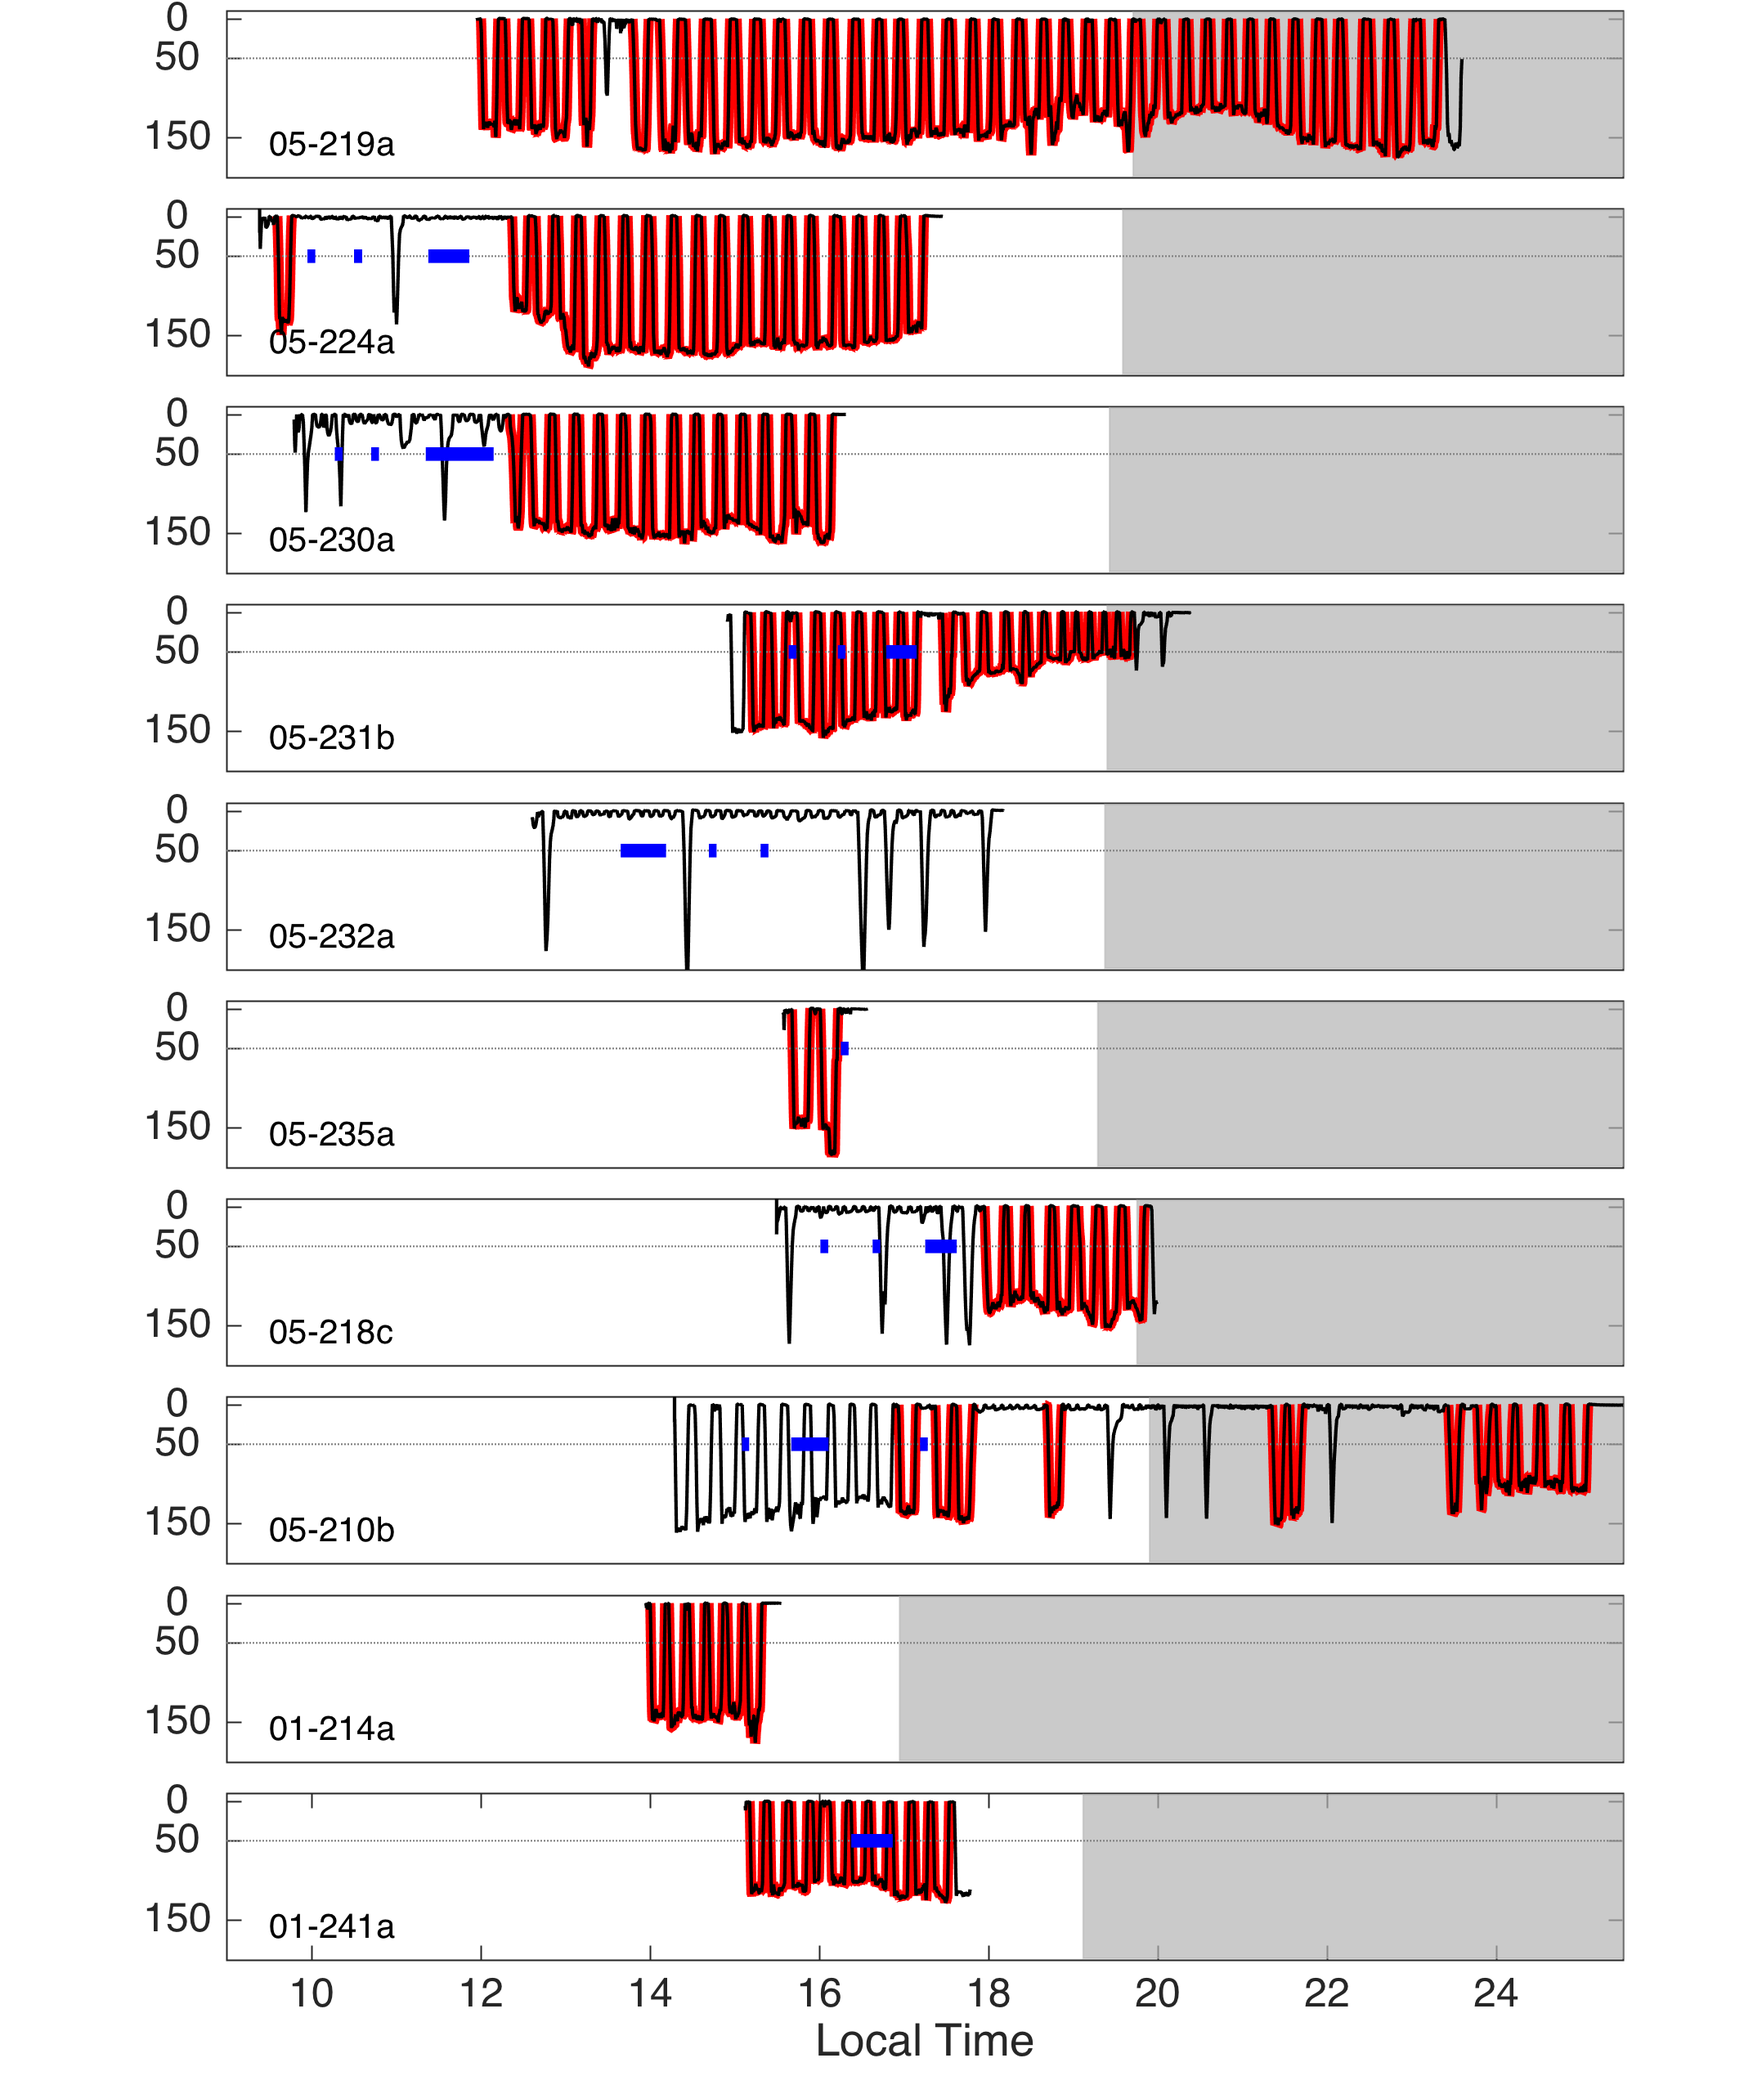
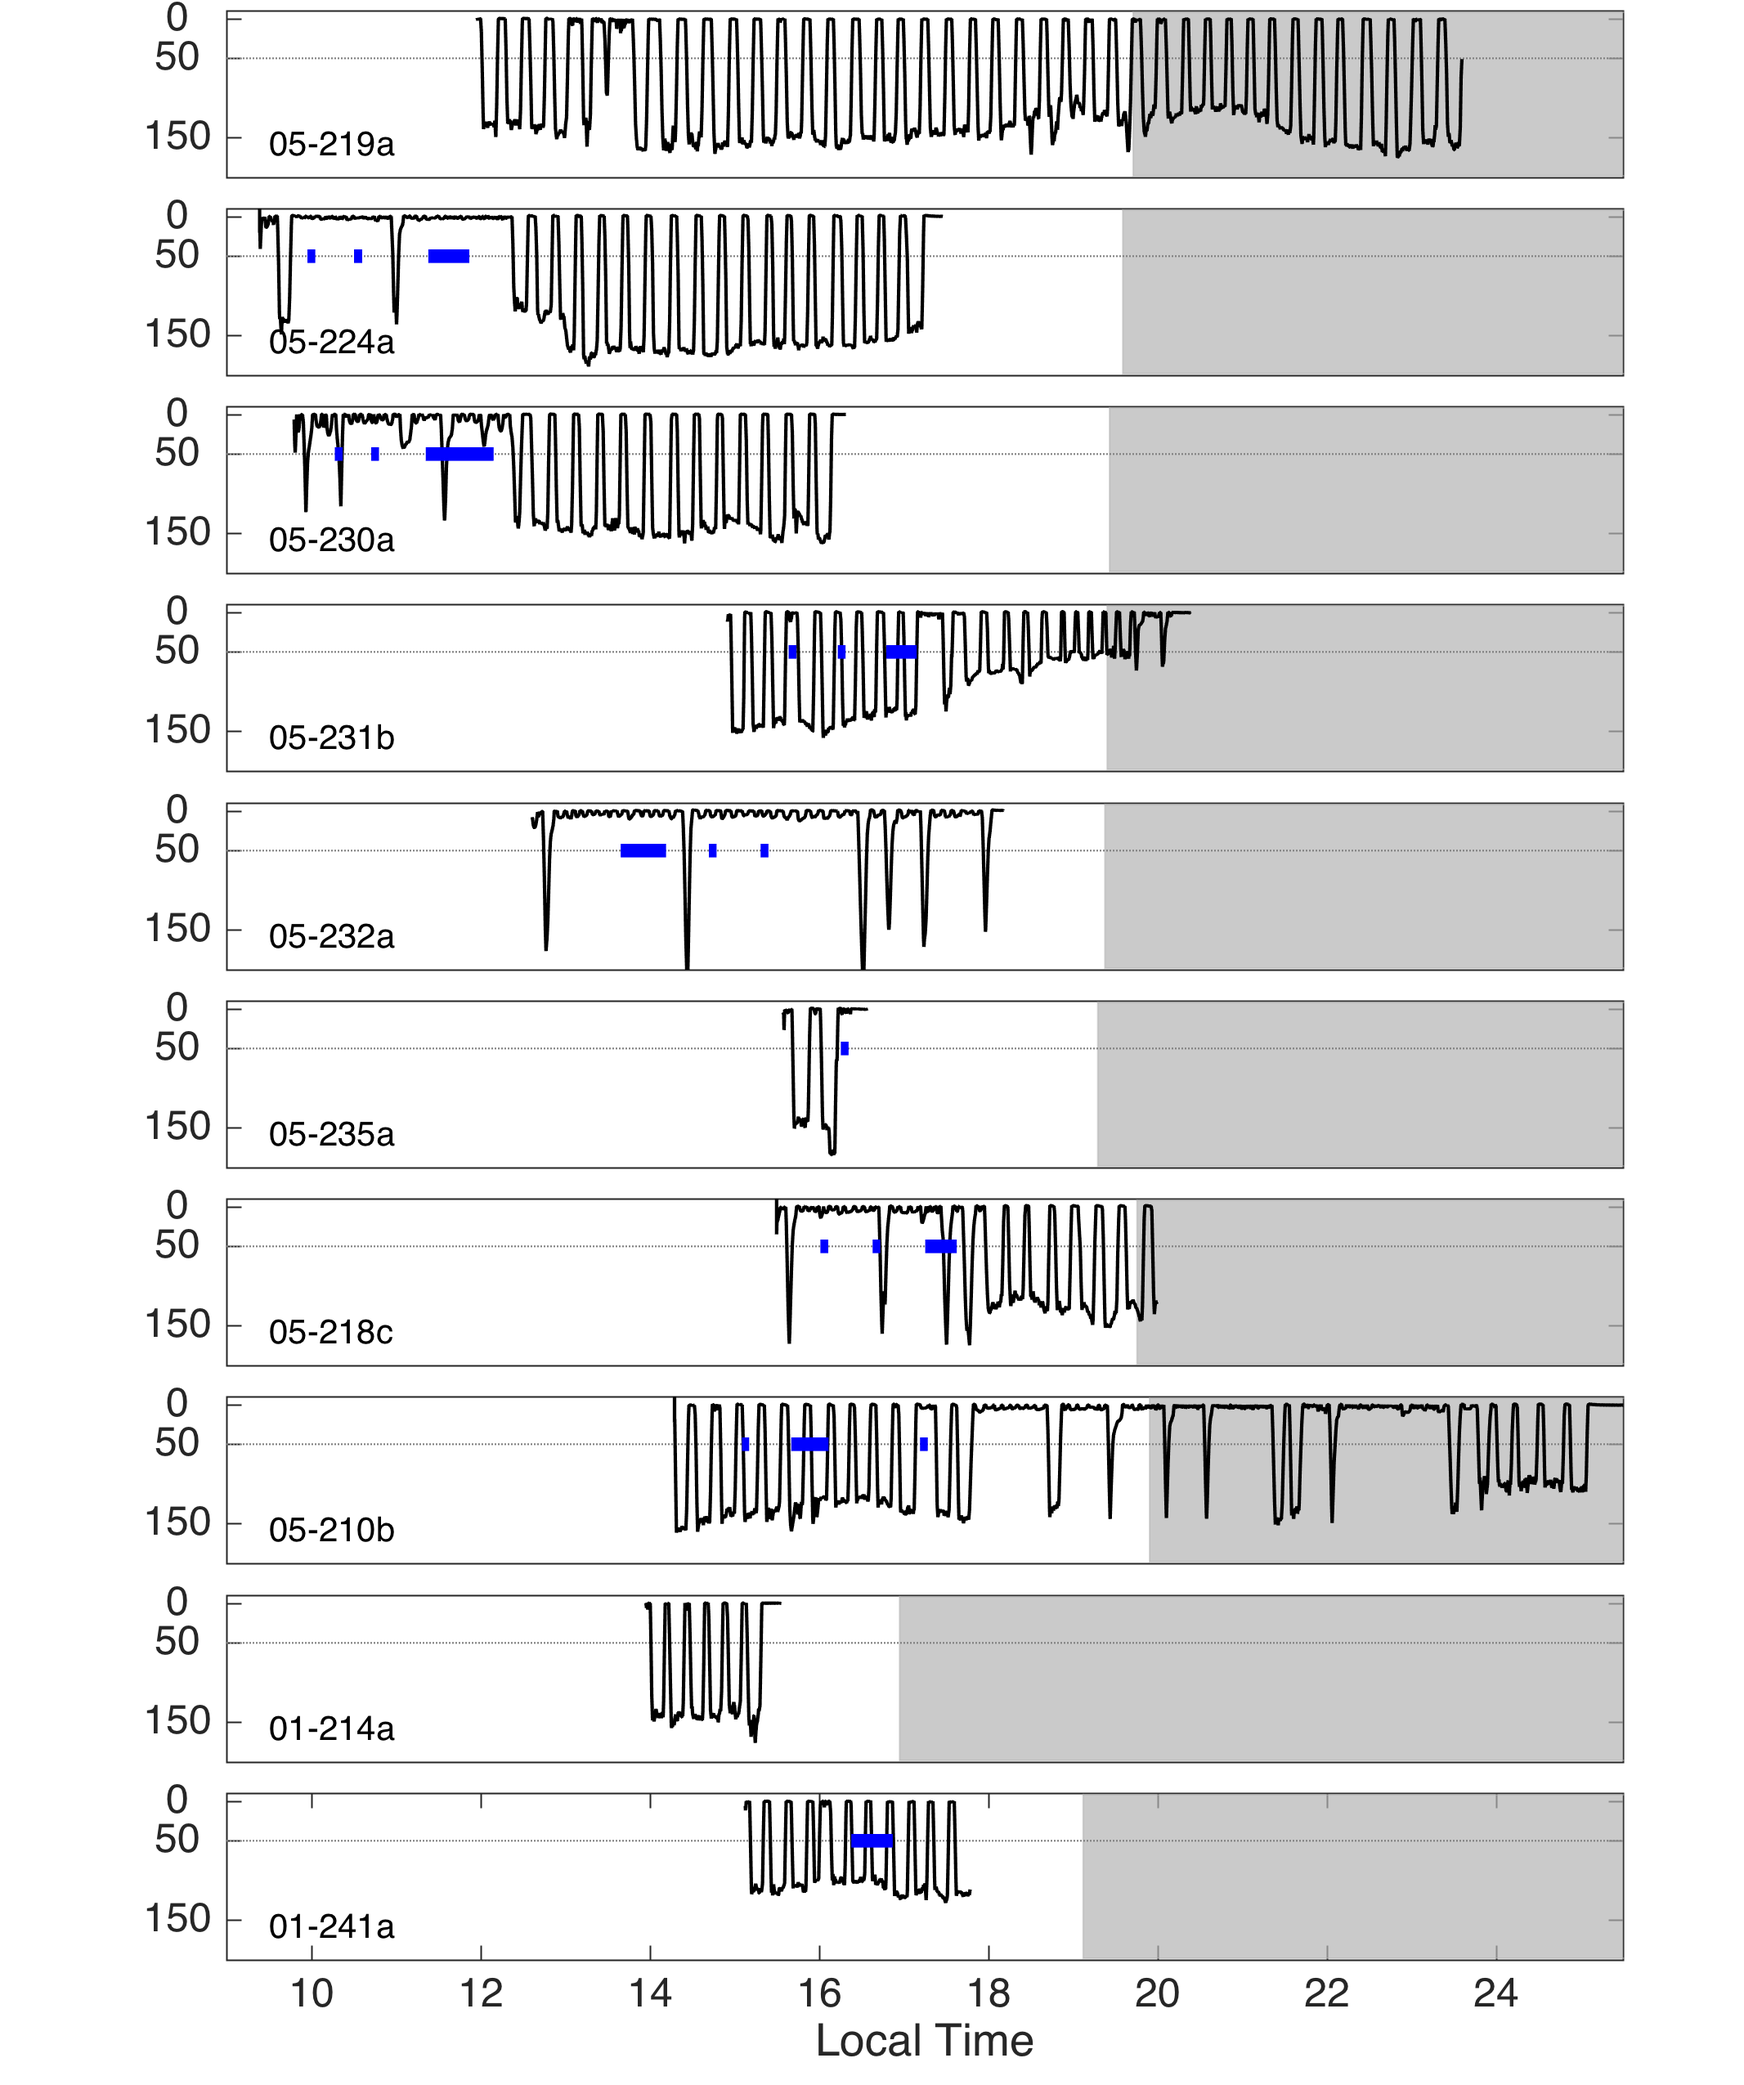
remove all files not using moving forward

diff --git a/NARW_plotAlldives.m b/NARW_plotAlldives.m
@@ -21,11 +21,11 @@ for i = 1:length(tags)
     ddur = T(:,2)-T(:,1); % calculate duration of all dives
     
     % import flow speed for the tag
-    load(['/Users/julievanderhoop/Dropbox (Personal)/tag/tagdata/' tag '_flowspeed.mat'])
-    
-    NARW_FilteredVol
-    NARW_plotalldens
-    
+%     load(['/Users/julievanderhoop/Dropbox (Personal)/tag/tagdata/' tag '_flowspeed.mat'])
+%     
+%     NARW_FilteredVol
+%     NARW_plotalldens
+%     
     %    figure(24), hold on
     %    for k = 1:length(dive)
     %        if isempty(dive(k).vperblock) == 0
@@ -35,21 +35,24 @@ for i = 1:length(tags)
     %   xlabel('Duration of fluking bout (sec)'), ylabel('Volume filtered m^3')
     
     % plot by time of day
-    figure(100), subplot('position',[0.13 1.01-(i*0.095) 0.8 0.08]), hold on, box on
+    if i <= 10, 
+        figure(100), 
+        subplot('position',[0.13 1.01-(i*0.095) 0.8 0.08]), hold on, box on
+    end
     UTC = tags{i,2}(4:end);
     % add sunrise and sunset
     [sun_rise,sun_set] = sunRiseSet(44.55,-66.4,-4,datestr(datenum(tags{i,2}(1:3))));
     sr = str2num(sun_rise(1:2))+str2num(sun_rise(4:5))/60+str2num(sun_rise(7:8))/3600;
     ss = str2num(sun_set(1:2))+str2num(sun_set(4:5))/60+str2num(sun_set(7:8))/3600;
-    h1 = patch([ss 25.5 25.5 ss ss],[8 8 -198 -198 0],[0.7 0.7 0.7]);
+    h1 = patch([ss 24+sr 24+sr ss ss],[8 8 -198 -198 0],[0.7 0.7 0.7]);
     h1.EdgeColor = [0.7 0.7 0.7]; h1.FaceAlpha = 0.7; h1.EdgeAlpha = 0.5;
-    for j = 1:length(dive)
-        if ~isempty(dive(j).vperblock)
-            dcue = T(j,1):T(j,2); % time in seconds
-            plot((UTC(1)+UTC(2)/60+UTC(3)/3600)+(T(j,1):T(j,2))/3600,-p(round(dcue*fs)),'r','linewidth',3)
-        end
-    end
-    
+%     for j = 1:length(dive)
+%         if ~isempty(dive(j).vperblock)
+%             dcue = T(j,1):T(j,2); % time in seconds
+%             plot((UTC(1)+UTC(2)/60+UTC(3)/3600)+(T(j,1):T(j,2))/3600,-p(round(dcue*fs)),'r','linewidth',3)
+%         end
+%     end
+%     
     plot([0 26],[-50 -50],':','color',[0.5 0.5 0.5])
     
     hh=plot((UTC(1)+UTC(2)/60+UTC(3)/3600)+[1:length(p)]/fs/3600,-p,'k','LineWidth',1);
@@ -57,29 +60,40 @@ for i = 1:length(tags)
     % add playback info
     for pb = 1:size(tags{i,7},1)
     plot([tags{i,7}(pb,1)+tags{i,7}(pb,2)/60+tags{i,7}(pb,3)/3600 tags{i,7}(pb,4)+tags{i,7}(pb,5)/60+tags{i,7}(pb,6)/3600],[-50 -50],'b','Linewidth',4)
+    if sum(tags{i,7}) > 0 % if there is a playback 
+    % calculate time left in recording after playback
+    endtime = datevec(addtodate(datenum(tags{i,2}),length(p)/fs,'second'));
+    ttend(i) = etime(endtime,[tags{i,2}(1:3) tags{i,7}(end,4:6)])/3600; % in hours
+    plot([2+tags{i,7}(end,4)+tags{i,7}(end,5)/60+tags{i,7}(end,6)/3600 2+tags{i,7}(end,4)+tags{i,7}(end,5)/60+tags{i,7}(end,6)/3600],[-200 10],'r:')
+    end
     end
     
     
-    ylim([-200 10]), xlim([9 25.5])
+    ylim([-200 10]), xlim([8.9 30.5])
     set(gca,'ytick',[-150 -50 0],'yticklabels',[150 50 0],'xtick',10:2:24)
     text(9.5,-160,regexprep(tag(3:end),'_','-'))
-    if i <= 9, set(gca,'xtick',[]), end
-     
+    if i < length(tags), set(gca,'xtick',[]), end
+%     if i == 14, 
+%         set(gca,'ytick',[-150 -50 0],'yticklabels',[150 50 0],'xtick',[10:2:30],'xticklabels',[10:2:24 2:2:6])
+%         text(14,-160,regexprep(tag(3:end),'_','-'))
+%         set(gca,'xlim',[13.5 30])
+%     end
+%     
     % NARW_divepauseplot
     
-    for k = 1:size(T,1) % all dives on a tag
-        if isempty(dive(k).stops) == 0
-            figure(11), subplot(2,2,1), hold on
-            plot(ddur(k)/60,size(dive(k).stops,1),'o','color',tagc(i,:)) % color by tag
-            allddur(i,k) = ddur(k); allnstops(i,k) = size(dive(k).stops,1);  % store those values
-            xlabel('Dive duration (min)'), ylabel('Number of fluking bouts')
-            subplot(2,2,2), hold on
-            errorbar(ddur(k)/60,mean([dive(k).clearingtime]),std([dive(k).clearingtime]),'o','color',tagc(i,:)) % color by tag
-            mnboutdur(i,k) = mean([dive(k).clearingtime]);
-            xlabel('Dive duration (min)'), ylabel('Duration of fluking bouts (sec)')
-        end
-    end
-    %
+%     for k = 1:size(T,1) % all dives on a tag
+%         if isempty(dive(k).stops) == 0
+%             figure(11), subplot(2,2,1), hold on
+%             plot(ddur(k)/60,size(dive(k).stops,1),'o','color',tagc(i,:)) % color by tag
+%             allddur(i,k) = ddur(k); allnstops(i,k) = size(dive(k).stops,1);  % store those values
+%             xlabel('Dive duration (min)'), ylabel('Number of fluking bouts')
+%             subplot(2,2,2), hold on
+%             errorbar(ddur(k)/60,mean([dive(k).clearingtime]),std([dive(k).clearingtime]),'o','color',tagc(i,:)) % color by tag
+%             mnboutdur(i,k) = mean([dive(k).clearingtime]);
+%             xlabel('Dive duration (min)'), ylabel('Duration of fluking bouts (sec)')
+%         end
+%     end
+%     %
     %         if isempty(dive(k).btm) == 1 && sum(tag ~= 'eg05_210b') ~= 0 % if there's no bottom and if it's not dives 1-11 in this tag
     %             % descent speed
     %             phase_speed(k,1) = nanmean(dive(k).flowEst(round((T(k,1)+5:T(k,4))-T(k,1)+1)));
@@ -109,26 +123,29 @@ for i = 1:length(tags)
     %     tags{i,8} = phase_pitch;
     %     tags{i,9} = F;
     
-    figure(90), hold on
-    plot(T(:,3),1./(ddur/3600),'o')
-    xlabel('Depth (m)'), ylabel('Dives per hour')
-    
-    
-    [v,ph,~,~] = findflukes(Aw,Mw,fs,0.3,0.02,[2 8]); % calculate pitch deviation
-    figure(3), clf, hold on
-    plot(t,ph,'r')
-    plot(t,-p/100,'k')
-    
-    % pause
-    save(['/Users/julievanderhoop/Dropbox (Personal)/tag/tagdata/' tag '_flowspeed.mat'],'dive','-append')
-    if i < 10
+%     figure(90), hold on
+%     plot(T(:,3),1./(ddur/3600),'o')
+%     xlabel('Depth (m)'), ylabel('Dives per hour')
+%     
+%     
+%     [v,ph,~,~] = findflukes(Aw,Mw,fs,0.3,0.02,[2 8]); % calculate pitch deviation
+%     figure(3), clf, hold on
+%     plot(t,ph,'r')
+%     plot(t,-p/100,'k')
+%     
+%     % pause
+%     save(['/Users/julievanderhoop/Dropbox (Personal)/tag/tagdata/' tag '_flowspeed.mat'],'dive','-append')
+     if i < length(tags)
         clear p ptrack pitch ph Aw Mw fs phase_speed phase_pitch F % to remove carry-over of variables
     end
 end
 
+
 figure(100), xlabel('Local Time'), adjustfigurefont
 set(gcf,'position',[323 61 512 612],'paperpositionmode','auto')
 print('NARW_alldives_TOD_PB.png','-dpng','-r300')
+
+return 
 
 figure(11), set(gcf,'paperpositionmode','auto')
 subplot(2,2,3), hold on
